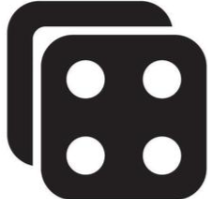
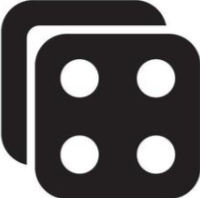
style

diff --git a/src/App.tsx b/src/App.tsx
@@ -21,7 +21,7 @@ type DiceProps = PropsWithChildren<{
 const Dice = ({ imageUrl }: DiceProps): JSX.Element => {
   return (
     <View>
-      <Image style={styles.diceImage} source={imageUrl} />
+      <Image source={imageUrl} />
     </View>
   );
 };
@@ -57,10 +57,13 @@ const App = (): JSX.Element => {
   };
   return (
     <View style={styles.container}>
+      <Text style={styles.title}>Roll The Dice</Text>
       <View style={styles.diceContainer}>
         <Dice imageUrl={diceImage} />
-        <Pressable onPress={rollDiceOnTap}>
-          <Text style={styles.rollTheDice}>Roll the Dice</Text>
+        <Pressable 
+        style={styles.rollbtn}
+        onPress={rollDiceOnTap}>
+          <Text style={styles.rollTheDice}>Roll</Text>
         </Pressable>
       </View>
     </View>
@@ -74,14 +77,28 @@ const styles = StyleSheet.create({
     flex: 1,
     justifyContent: 'center',
     alignItems: 'center',
-    gap: 20,
+    gap: 40
   },
   diceContainer: {
-    flex: 1,
     justifyContent: 'center',
     alignItems: 'center',
+    gap: 15
   },
-  diceImage: {},
+  title: {
+    fontSize: 50,
+    fontWeight: 'bold',
+    color: '#000000',
+    marginBottom: 12,
+    marginTop: 12,
+    
+  },
+  rollbtn: {
+    backgroundColor: 'white',
+    borderWidth: 1,
+    borderRadius: 8,
+    paddingHorizontal: 30, 
+    paddingVertical: 10,
+  },
   rollTheDice: {
     fontSize: 20,
     fontWeight: 'bold',